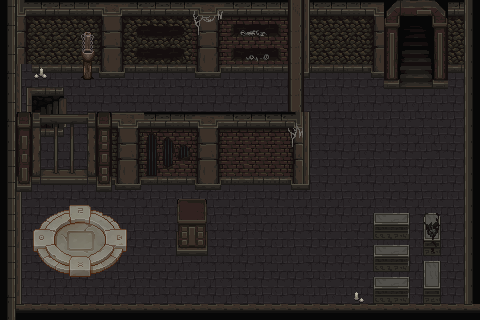
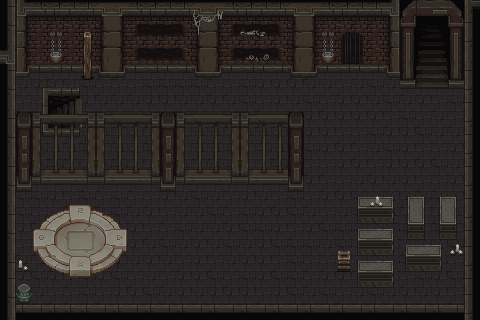
Mapa1 Atualiazado com colisões

diff --git a/MapCollisions.js b/MapCollisions.js
@@ -1,26 +1,26 @@
 //10 são as colisões
 
 const levels = [
-    [0, 0, 0, 0, 0, 0, 0, 0, 0, 0, 0, 0, 0, 0, 0, 0, 0, 0, 0, 0, 0, 0, 0, 0, 0, 0, 0, 0, 0, 0,
-        0, 0, 0, 0, 0, 0, 0, 0, 0, 0, 0, 0, 0, 0, 0, 0, 0, 0, 0, 0, 0, 0, 0, 0, 0, 0, 0, 0, 0, 0,
-        0, 0, 0, 0, 0, 0, 0, 0, 0, 0, 0, 0, 0, 0, 0, 0, 0, 0, 0, 0, 0, 0, 0, 0, 0, 0, 0, 0, 0, 0,
-        0, 0, 0, 0, 0, 0, 0, 0, 0, 0, 0, 0, 0, 0, 0, 0, 0, 0, 0, 0, 0, 0, 0, 0, 0, 0, 0, 0, 0, 0,
-        0, 10, 10, 10, 10, 10, 10, 10, 10, 10, 10, 10, 10, 10, 10, 10, 10, 10, 10, 10, 10, 10, 10, 10, 0, 20, 20, 0, 10, 0,
-        0, 10, 0, 0, 0, 0, 0, 0, 0, 0, 0, 0, 0, 0, 0, 0, 0, 0, 0, 0, 0, 0, 0, 0, 10, 0, 0, 10, 0, 10,
-        0, 10, 30, 30, 0, 0, 0, 0, 0, 0, 0, 0, 0, 0, 0, 0, 0, 0, 0, 0, 0, 0, 0, 0, 0, 0, 0, 0, 0, 10,
-        0, 10, 30, 30, 0, 0, 0, 0, 0, 0, 0, 0, 0, 0, 0, 0, 0, 0, 0, 0, 0, 0, 0, 0, 0, 0, 0, 0, 0, 10,
-        0, 10, 0, 0, 0, 0, 0, 0, 0, 0, 0, 0, 0, 0, 0, 0, 0, 0, 0, 0, 0, 0, 0, 0, 0, 0, 0, 0, 0, 10,
-        0, 10, 0, 0, 0, 0, 0, 0, 0, 0, 0, 0, 0, 0, 0, 0, 0, 0, 0, 10, 0, 0, 0, 0, 0, 0, 0, 0, 0, 10,
-        0, 10, 0, 0, 0, 0, 0, 0, 0, 0, 0, 0, 0, 0, 0, 0, 0, 0, 0, 10, 0, 0, 0, 0, 0, 0, 0, 0, 0, 10,
-        0, 10, 10, 10, 10, 10, 10, 10, 10, 10, 10, 10, 10, 10, 10, 10, 10, 10, 10, 0, 0, 0, 0, 0, 0, 0, 0, 0, 0, 10,
-        0, 10, 0, 0, 0, 0, 0, 0, 0, 0, 0, 0, 0, 0, 0, 0, 0, 0, 0, 0, 0, 0, 0, 0, 0, 0, 0, 0, 0, 10,
-        0, 10, 0, 0, 0, 0, 0, 0, 0, 0, 0, 0, 0, 0, 0, 0, 0, 0, 0, 0, 0, 0, 0, 0, 0, 0, 10, 10, 0, 10,
-        0, 10, 0, 0, 0, 0, 0, 0, 0, 0, 0, 10, 10, 0, 0, 0, 0, 0, 0, 0, 0, 0, 0, 10, 10, 10, 10, 10, 0, 10,
-        0, 10, 0, 0, 0, 0, 0, 0, 0, 0, 0, 10, 10, 0, 0, 0, 0, 0, 0, 0, 0, 0, 0, 0, 0, 0, 10, 10, 0, 10,
-        0, 10, 0, 0, 0, 0, 0, 0, 0, 0, 0, 0, 0, 0, 0, 0, 0, 0, 0, 0, 0, 0, 0, 10, 10, 10, 10, 10, 0, 10,
-        0, 10, 0, 0, 0, 0, 0, 0, 0, 0, 0, 0, 0, 0, 0, 0, 0, 0, 0, 0, 0, 0, 0, 0, 0, 0, 10, 10, 0, 10,
-        0, 10, 0, 0, 0, 0, 0, 0, 0, 0, 0, 0, 0, 0, 0, 0, 0, 0, 0, 0, 0, 0, 0, 10, 10, 10, 0, 0, 0, 10,
-        0, 10, 10, 10, 10, 10, 10, 10, 10, 10, 10, 10, 10, 10, 10, 10, 10, 10, 10, 10, 10, 10, 10, 10, 10, 10, 10, 10, 10, 10],
+    [0, 0, 0, 0, 0, 0, 0, 0, 0, 0, 0, 0, 0, 0, 0, 0, 0, 0, 0, 0, 0, 0, 0, 0, 0, 0, 0, 0, 0, 10,
+        0, 0, 0, 0, 0, 0, 0, 0, 0, 0, 0, 0, 0, 0, 0, 0, 0, 0, 0, 0, 0, 0, 0, 0, 0, 0, 0, 0, 0, 10,
+        0, 0, 0, 0, 0, 0, 0, 0, 0, 0, 0, 0, 0, 0, 0, 0, 0, 0, 0, 0, 0, 0, 0, 0, 0, 0, 0, 0, 0, 10,
+        10, 10, 10, 10, 10, 10, 10, 10, 10, 10, 10, 10, 10, 10, 10, 10, 10, 10, 10, 10, 10, 10, 10, 10, 10, 0, 0, 0, 0, 10,
+        10, 0, 0, 0, 0, 0, 0, 0, 0, 0, 0, 0, 0, 0, 0, 0, 0, 0, 0, 0, 0, 0, 0, 0, 0, 10, 20, 20, 10, 10,
+        10, 0, 0, 0, 0, 0, 0, 0, 0, 0, 0, 0, 0, 0, 0, 0, 0, 0, 0, 0, 0, 0, 0, 0, 0, 0, 0, 0, 0, 10,
+        10, 0, 0, 2828, 2828, 0, 0, 0, 0, 0, 0, 0, 0, 0, 0, 0, 0, 0, 0, 0, 0, 0, 0, 0, 0, 0, 0, 0, 0, 10,
+        10, 0, 0, 2828, 2828, 0, 0, 0, 0, 0, 0, 0, 0, 0, 0, 0, 0, 0, 0, 0, 0, 0, 0, 0, 0, 0, 0, 0, 0, 10,
+        10, 0, 0, 0, 0, 0, 0, 0, 0, 0, 0, 0, 0, 0, 0, 0, 0, 0, 0, 0, 0, 0, 0, 0, 0, 0, 0, 0, 0, 10,
+        10, 0, 0, 0, 0, 0, 0, 0, 0, 0, 0, 0, 0, 0, 0, 0, 0, 0, 0, 0, 0, 0, 0, 0, 0, 0, 0, 0, 0, 10,
+        10, 10, 10, 10, 10, 10, 10, 10, 10, 10, 10, 10, 10, 10, 10, 10, 10, 10, 10, 0, 0, 0, 0, 0, 0, 0, 0, 0, 0, 10,
+        10, 0, 0, 0, 0, 0, 0, 0, 0, 0, 0, 0, 0, 0, 0, 0, 0, 0, 0, 0, 0, 0, 0, 0, 0, 0, 0, 0, 0, 10,
+        10, 0, 0, 0, 0, 0, 0, 0, 0, 0, 0, 0, 0, 0, 0, 0, 0, 0, 0, 0, 0, 0, 10, 10, 10, 10, 10, 10, 10, 10,
+        10, 0, 0, 0, 0, 0, 0, 0, 0, 0, 0, 0, 0, 0, 0, 0, 0, 0, 0, 0, 0, 0, 10, 10, 10, 10, 10, 10, 10, 10,
+        10, 0, 0, 0, 0, 0, 0, 0, 0, 0, 0, 0, 0, 0, 0, 0, 0, 0, 0, 0, 0, 0, 10, 0, 0, 0, 0, 10, 10, 10,
+        10, 0, 0, 0, 0, 0, 0, 0, 0, 0, 0, 0, 0, 0, 0, 0, 0, 0, 0, 0, 0, 0, 10, 0, 0, 10, 10, 10, 0, 10,
+        10, 0, 0, 0, 0, 0, 0, 0, 0, 0, 0, 0, 0, 0, 0, 0, 0, 0, 0, 0, 0, 10, 10, 10, 10, 0, 0, 0, 0, 10,
+        10, 0, 0, 0, 0, 0, 0, 0, 0, 0, 0, 0, 0, 0, 0, 0, 0, 0, 0, 0, 0, 0, 0, 0, 0, 0, 0, 0, 0, 10,
+        10, 10, 0, 0, 0, 0, 0, 0, 0, 0, 0, 0, 0, 0, 0, 0, 0, 0, 0, 0, 0, 0, 0, 0, 0, 0, 0, 0, 0, 10,
+        10, 10, 10, 10, 10, 10, 10, 10, 10, 10, 10, 10, 10, 10, 10, 10, 10, 10, 10, 10, 10, 10, 10, 10, 10, 10, 10, 10, 10, 10],
     [0, 0, 0, 0, 0, 0, 0, 0, 10, 20, 20, 20, 20, 10, 0, 0, 0, 0, 0, 0, 0, 0, 10, 30, 30, 10, 0, 0, 0, 0,
         0, 0, 0, 0, 0, 0, 0, 0, 10, 0, 0, 0, 0, 10, 0, 0, 0, 0, 0, 0, 0, 0, 10, 0, 0, 10, 0, 0, 0, 0,
         0, 0, 0, 0, 0, 0, 0, 0, 10, 0, 0, 0, 0, 10, 0, 0, 0, 0, 0, 0, 0, 0, 10, 0, 0, 10, 0, 0, 0, 0,

diff --git a/EventListeners.js b/EventListeners.js
@@ -29,9 +29,36 @@ window.addEventListener('keydown',function(e){
 });
 let attackTimeOut = false;
 window.addEventListener("click",function (e) {
-   if (!attackTimeOut){
-       player.attack()
-       attackTimeOut=true;
+
+
+    if (!attackTimeOut){
+       if (e.clientY < player.y && e.clientX >player.x && e.clientX<player.x +player.width ){
+           player.direction="up"
+           player.state = 8;
+           idle_setter()
+
+       }
+       else if (e.clientX > player.x +32){
+            player.direction="right"
+            player.state = 7;
+
+        }
+       else if (e.clientX < player.x +32 ){
+            player.direction="left"
+            player.state = 6;
+
+        }
+
+        if (e.clientY > player.y && e.clientX >player.x && e.clientX<player.x +player.width ){
+            player.direction="down"
+            player.state = 5;
+
+        }
+
+        console.log("x do rato: " + e.clientX + "y do rato:"+ e.clientY)
+        player.attack()
+        attackTimeOut=true;
+
    }
     setTimeout(() => {
       attackTimeOut = false;

diff --git a/GameObjects.js b/GameObjects.js
@@ -152,10 +152,7 @@ class Player extends AnimatedSprite{
         this.draw(this.state)
         this.update();
 
-        if (this.x>canvas.width){
-            this.x=200
-            this.level++;
-        }
+
 
         //ctx.fillRect(this.x+37,this.y+37,this.width-75,this.height-75)
 
@@ -186,21 +183,31 @@ class Player extends AnimatedSprite{
     }
 
     attack(){
-
-        this.attacks.push(new Attack(this.x,this.y,this.width,this.height))
+        this.attacks=[]
+        console.log(player.state)
+        this.attacks.push(new Attack(this.x,this.y,25,100))
+        attackDirection(this.attacks[this.attacks.length-1])
     }
 
 }
 
 class Attack extends GameObject{
     constructor(x,y,width,height) {
+
+
         super(x,y,width,height);
 
     this.damage=10;
 
+
+
+
+
+
     }
     draw() {
-        ctx.fillRect(this.x,this.y,25,100)
+        ctx.fillStyle="yellow"
+        ctx.fillRect(this.x,this.y,this.width,this.height)
     }
 
 }

diff --git a/GameRules.js b/GameRules.js
@@ -24,6 +24,26 @@ function idle_setter(){
         break;
     }
 }
+
+function attackDirection(attack) {
+    if (player.direction=="right"){
+        attack.x += player.width
+    }
+
+    if (player.direction=="up"){
+        let aux= attack.height
+        attack.height=attack.width
+        attack.width=aux
+        attack.x+=37
+    }
+    if (player.direction=="down"){
+        let aux= attack.height
+        attack.height=attack.width
+        attack.width=aux
+        attack.y+=115
+        attack.x+=37
+    }
+}
 function generateCollision() {
     levelNow=[]
     console.log(map.colisionsArray.length)

diff --git a/GameLoop.js b/GameLoop.js
@@ -21,10 +21,10 @@ function animate(){
 
     player.move(keys);
     foreground.draw(player.level)
-    player.attacks.forEach(attack =>{
+        player.attacks.forEach(attack =>{
 
-        attack.draw()
-    })
+            attack.draw()
+        })
        DrawstructuresCollision();
     }, 1000/fps);
 }
